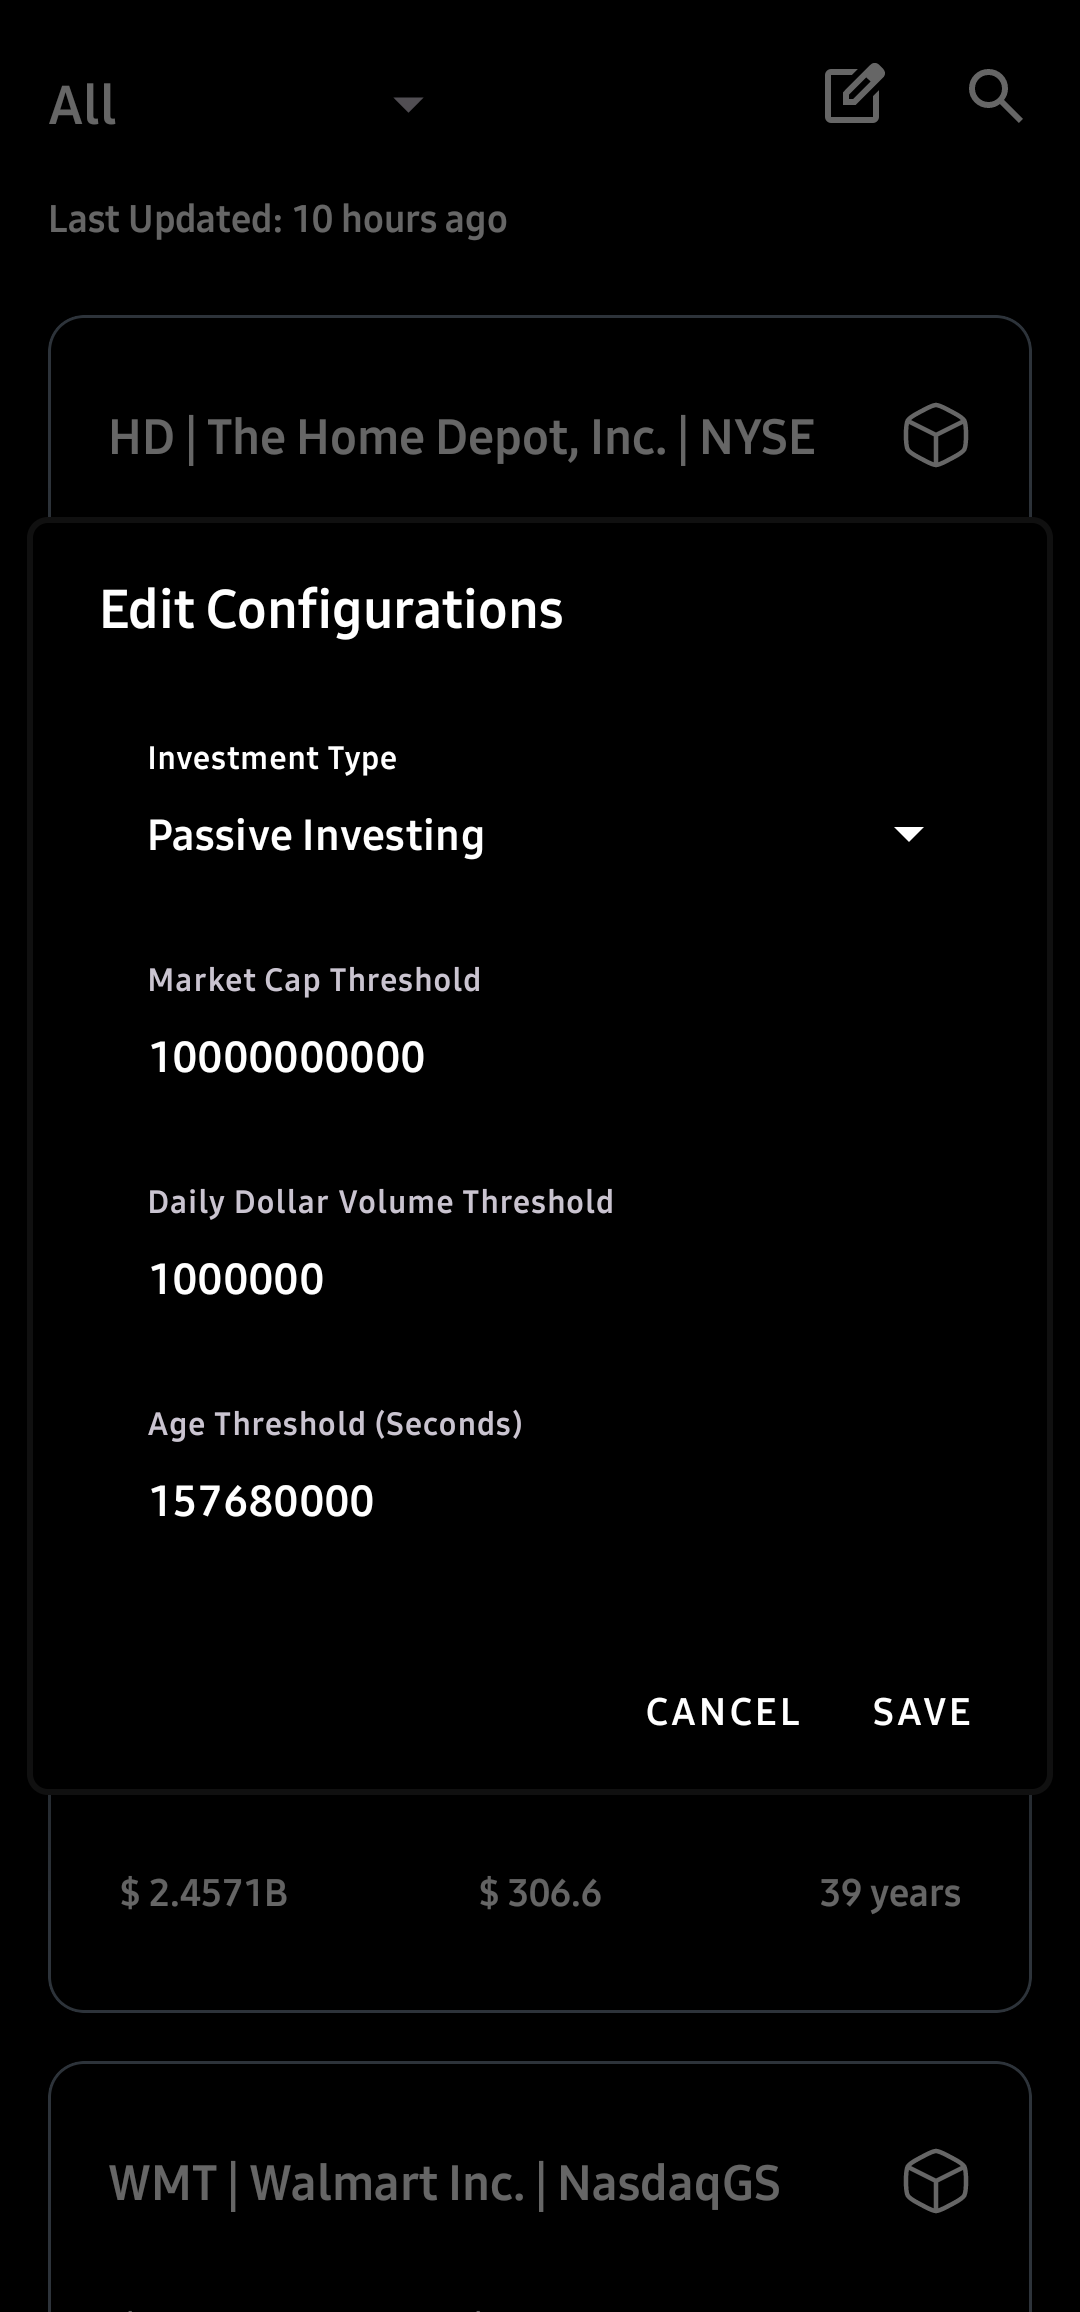
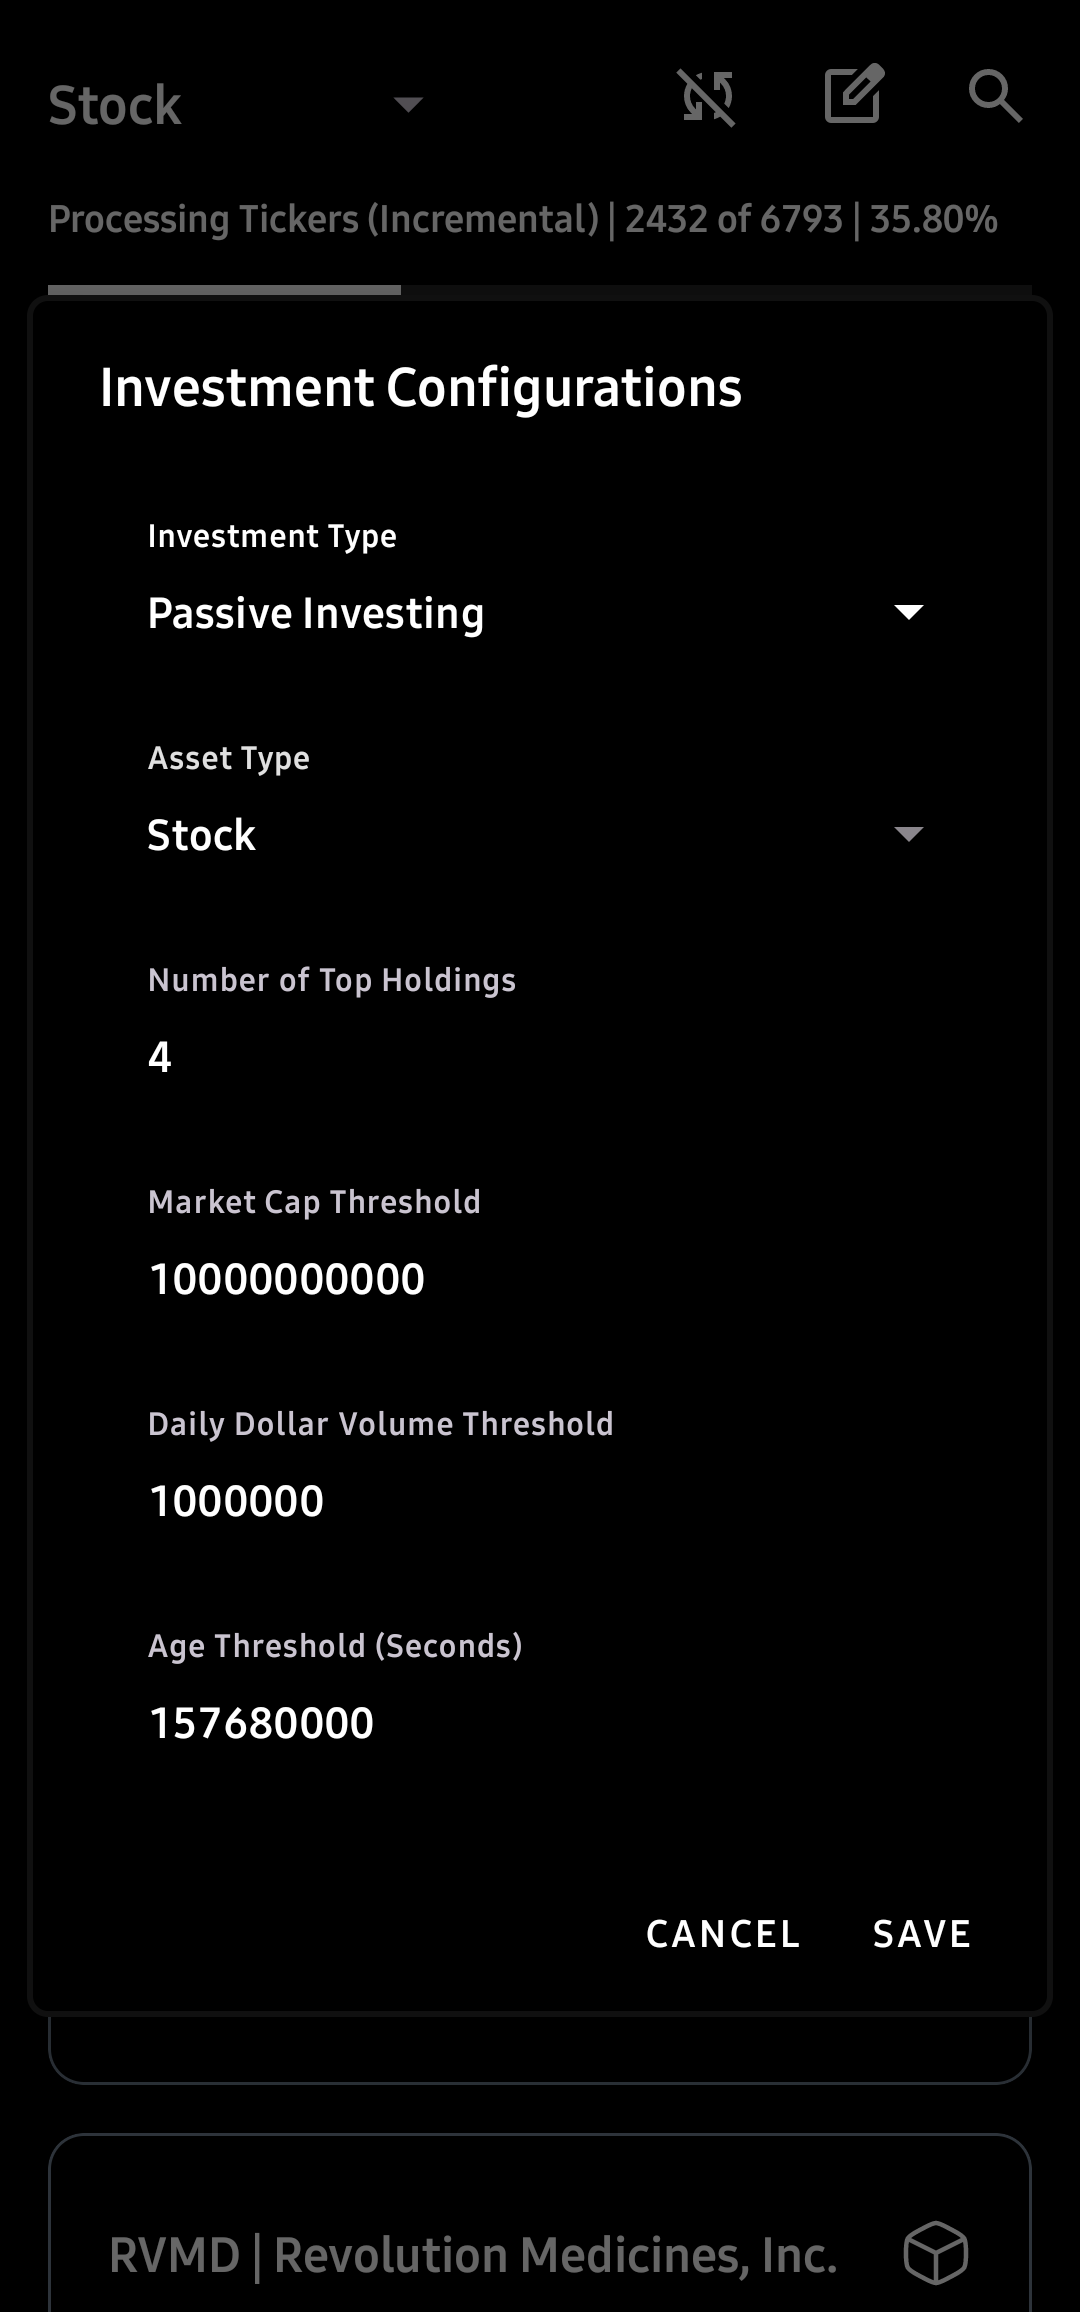
Updated README.md and an image for it.

diff --git a/README.md b/README.md
@@ -3,13 +3,19 @@
   <h1 align="center">Investment Screener</h1>
   <a href="https://github.com/u-Kuro/Investment/releases/download/v1.0.0/Investment.apk">
     <img src="./images/android-download.svg" alt="Download"/>
-  </a>    
+  </a>
+  <hr/>
+  <div>
+    <img src="./images/android-preview-1.png" style="width:32.34%;">
+    <img src="./images/android-preview-2.png" style="width:32.34%;">
+    <img src="./images/android-preview-3.png" style="width:32.34%;">
+  </div>
 </div>
 
 ---
 
 # What Is It
-A system that automatically pulls the price history of every large-cap stock and cryptocurrency, runs proprietary signal math on that history, allowing real-time notification for investment opportunities.
+A system that automatically pulls the price history of every large-cap stock and cryptocurrency, runs analysis on that history, and sends notification for investment opportunities.
 
 ---
 
@@ -17,24 +23,24 @@ A system that automatically pulls the price history of every large-cap stock and
 
 Every refresh cycle pulls two types of assets from Yahoo Finance:
 
-| Asset Class | Universe | Ranked by |
-|---|---|---|
-| **US Stocks** | All large-cap US equities | Market cap (largest first) |
-| **Crypto** | All US-listed cryptocurrencies | Market cap (largest first) |
+| Asset Class | Universe                      |
+|---|---|
+| **US Stocks** | All large-cap US equities |
+| **Crypto** | All large-cap cryptocurrencies |
 
 
 **Fields collected per price bar:**
 
-| Data Point | What It Represents |
-|---|---|
-| Open price | Price at the start of the bar |
-| High price | Highest price reached during the bar |
-| Low price | Lowest price reached during the bar |
-| Close price | Price at the end of the bar |
-| Adjusted close | Close price corrected for stock splits and dividends |
+| Data Point | What It Represents                                                                  |
+|---|-------------------------------------------------------------------------------------|
+| Open price | Price at the start of the bar                                                       |
+| High price | Highest price reached during the bar                                                |
+| Low price | Lowest price reached during the bar                                                 |
+| Close price | Price at the end of the bar                                                         |
+| Adjusted close | Close price corrected for stock splits and dividends                                |
 | Volume | Number of units traded (crypto volume is converted from dollar value back to units) |
-| Market cap | Total market value of the asset — used for filtering |
-| First trade date | Inferred from the earliest timestamp in the history |
+| Market cap | Total market value of the asset (used for filtering)                                |
+| First trade date | Inferred from the earliest timestamp in the history                                 |
 
 **Time intervals fetched** (tried in order, first one that returns data is used):
 
@@ -55,40 +61,40 @@ Every refresh cycle pulls two types of assets from Yahoo Finance:
 
 ## Fair Value Price
 
-Rather than using the most recent close as the reference price, the app computes a **volume-weighted, range-weighted average** across the asset's entire history. Bars where more money changed hands — and where price moved across a wider range — carry more weight.
+Rather than using the most recent close as the reference price, the app computes a **weighted average using volume and range** across the asset's entire history. Periods where asset changed hands the most and where price moved across a wider range, carry more weight.
 
 This produces a single price level representing where the bulk of all trading activity has historically concentrated. It adjusts automatically as new bars arrive.
 
 ## Upper and Lower Bands
 
-Using the same historical data, the app measures how far price has typically strayed from the fair value price — again weighted by traded volume and bar width. This produces a symmetric upper band and lower band around fair value.
+Using the same historical data, the app measures how far the actual price has strayed from the fair value price on average, still weighted by traded volume and bar width. This produces a symmetric upper band and lower band around fair value.
 
 These bands are not fixed percentages. They widen for volatile assets with erratic price history and narrow for stable ones. They also adapt as new price data comes in.
 
 ## Growth Rate (% per day)
 
-Measures how much the asset has returned from a contextual starting point to today, normalised to a daily rate so assets of any age can be compared on the same scale.
+Measures how much the asset has returned from a contextual starting point to today, normalized to a daily rate so assets of any age can be compared on the same scale.
 
 Two modes use different starting points:
 
 | Mode | Starting Point | Measures |
 |---|---|---|
-| **Passive** | The asset's very first trading day (IPO / launch) | Total lifetime return per day |
+| **Passive** | The asset's very first trading day (IPO / launch) | Total lifetime return |
 | **Momentum** | The last point where the upper band stopped making new highs | Return since the current trend began |
 
 ## Price State (The Core Signal)
 
-Every asset is classified into one of three states at any moment:
+Every asset is classified into one of three states:
 
-| State | Condition | Interpretation |
-|---|---|---|
-| 🟢 **Above Range** | Current price is above the upper band, and the growth rate is positive | Price has cleared its historical resistance ceiling with upward momentum |
-| 🟡 **In Range** | Current price sits between the lower and upper band | Price is within fair value — neither cheap nor stretched |
-| 🔴 **Below Range** | Current price is below the lower band, or growth rate is zero/negative | Price is below where most historical trading occurred, or the trend is flat/declining |
+| State | Condition | Interpretation                                                                    |
+|---|---|-----------------------------------------------------------------------------------|
+| 🟢 **Above Range** | Current price is above the upper band, and the growth rate is positive | Price has cleared its historical resistance ceiling with upward momentum          |
+| 🟡 **In Range** | Current price sits between the lower and upper band | Price is within fair value, neither valued under nor over                         |
+| 🔴 **Below Range** | Current price is below the lower band, or growth rate is zero/negative | Price is below where most historical trading occurred, and is currently declining |
 
 ## Average Daily Dollar Volume
 
-A liquidity measure — the average dollar value traded per day, calculated from the full price history and normalised to daily terms regardless of which interval (weekly, monthly, etc.) was used. Used to filter out assets that would be difficult to enter or exit without moving the market.
+A liquidity measure, the average dollar value traded per day, calculated from the full price history and normalized to daily terms regardless of which interval (weekly, monthly, etc.) was used. Used to filter out assets that would be difficult to enter or exit.
 
 ---
 
@@ -100,13 +106,13 @@ A liquidity measure — the average dollar value traded per day, calculated from
 | **Minimum daily dollar volume** | $1 million / day | Illiquid assets |
 | **Minimum asset age** | 5 years | Assets without enough history for reliable signals |
 
-All three thresholds are adjustable by the user in the app's settings dialog.
+All three thresholds are adjustable by the user in the app's investment configuration.
 
 ---
 
 # How Data Stays Fresh
 
-Each cached signal record tracks the timestamp of the last bar it processed. On incremental refreshes, the API is asked only for bars newer than that timestamp. The running totals used in the signal math are updated by appending new bars, not by recalculating from scratch.
+Each cached signal record tracks the timestamp of the last bar it processed. On incremental refreshes, the API is asked only for bars newer than that timestamp. The running totals used in the historical analysis are updated by appending new bars, not by recalculating from scratch.
 
 A background worker re-runs this update automatically on a schedule. If the app detects that data has gone stale beyond the thresholds below, the user is notified:
 
@@ -126,13 +132,4 @@ A background worker re-runs this update automatically on a schedule. If the app 
 | **Passive** | Assets with the highest lifetime return per day since first trade | Long-term, buy-and-hold selection |
 | **Momentum** | Assets with the highest return per day since their most recent trend started | Shorter-term, trend-following selection |
 
-The top 4 assets under each mode are saved as the active watchlist and drive all alert logic.
-
----
-
-# Android Application Preview
-<div>
-  <img src="./images/android-preview-1.png" style="width:250px;">
-  <img src="./images/android-preview-2.png" style="width:250px;">
-  <img src="./images/android-preview-3.png" style="width:250px;">
-</div>
+The top N assets under each mode are saved as the active watchlist which drives the alert logic.
